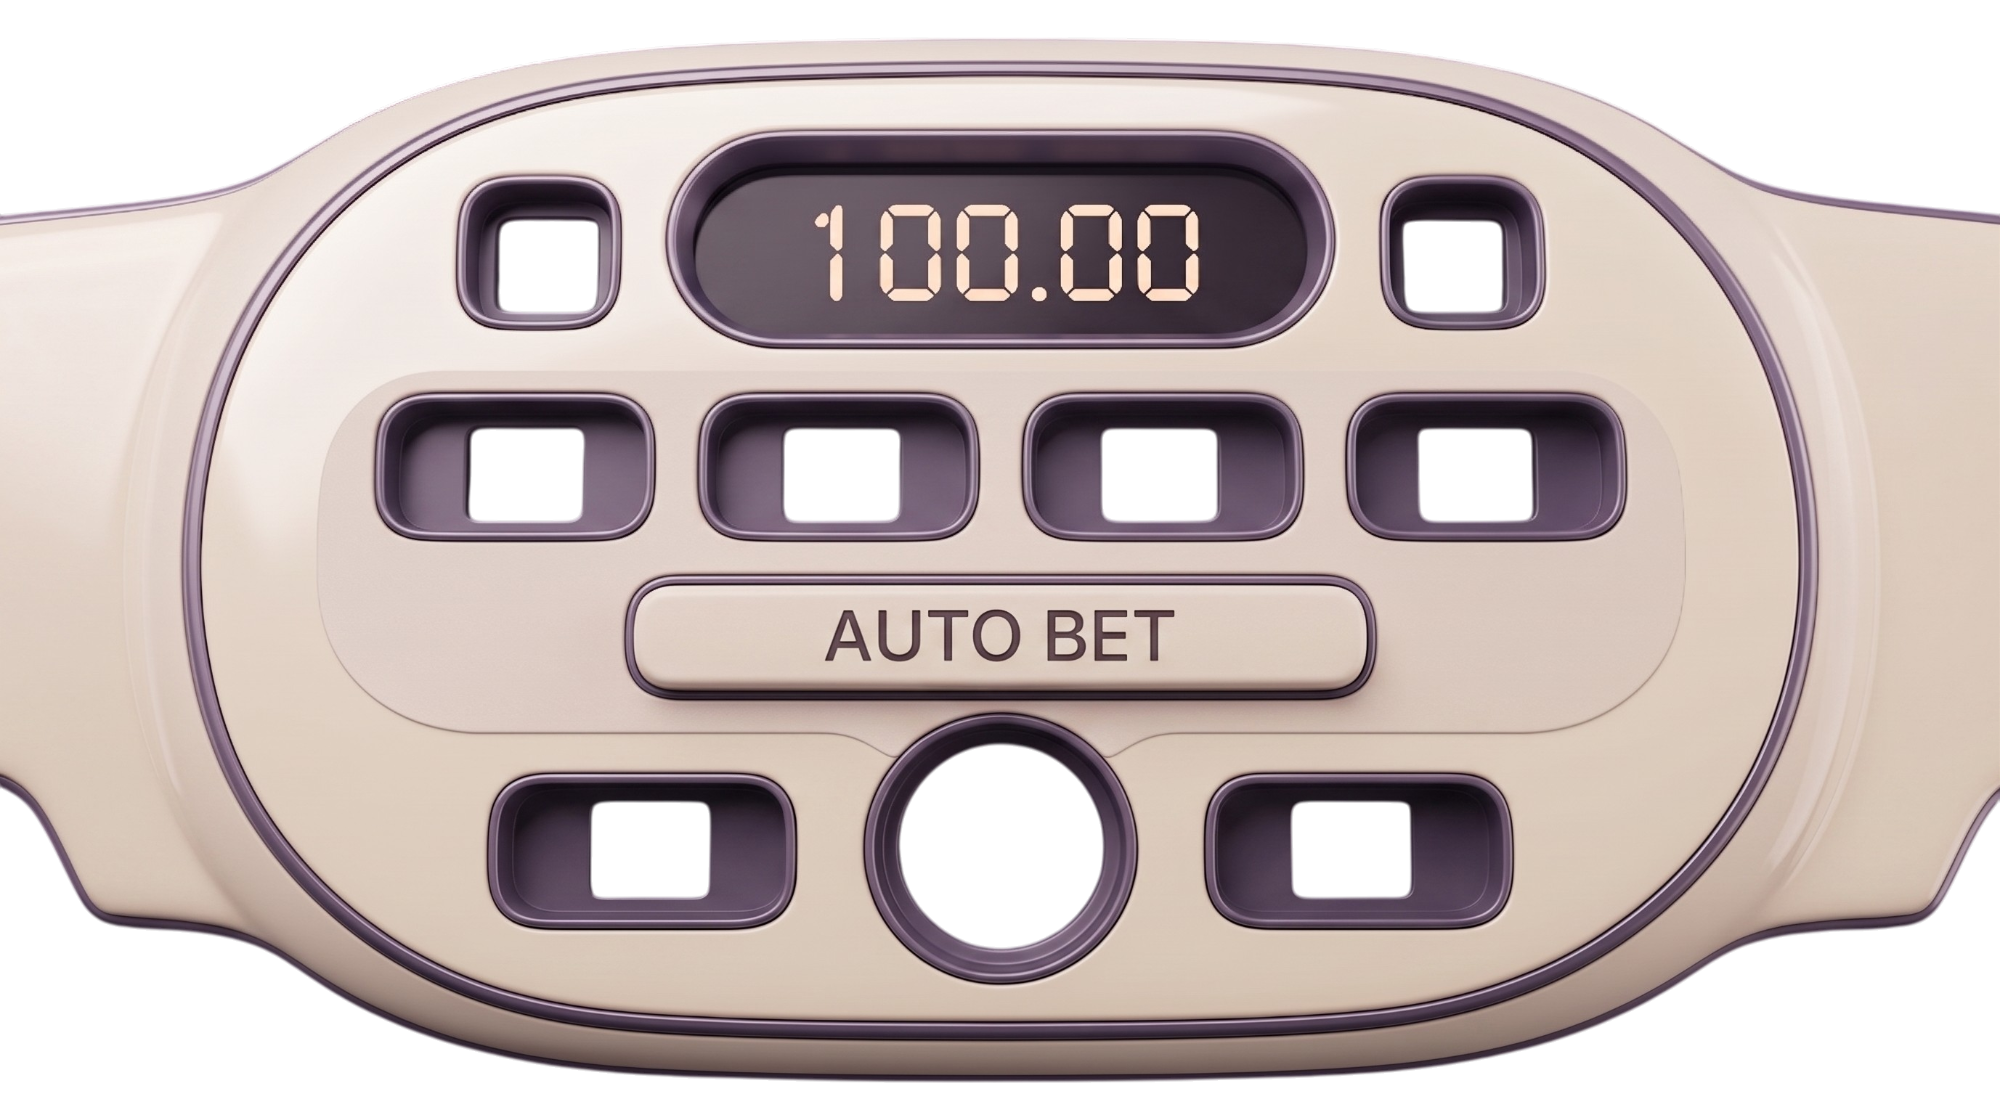
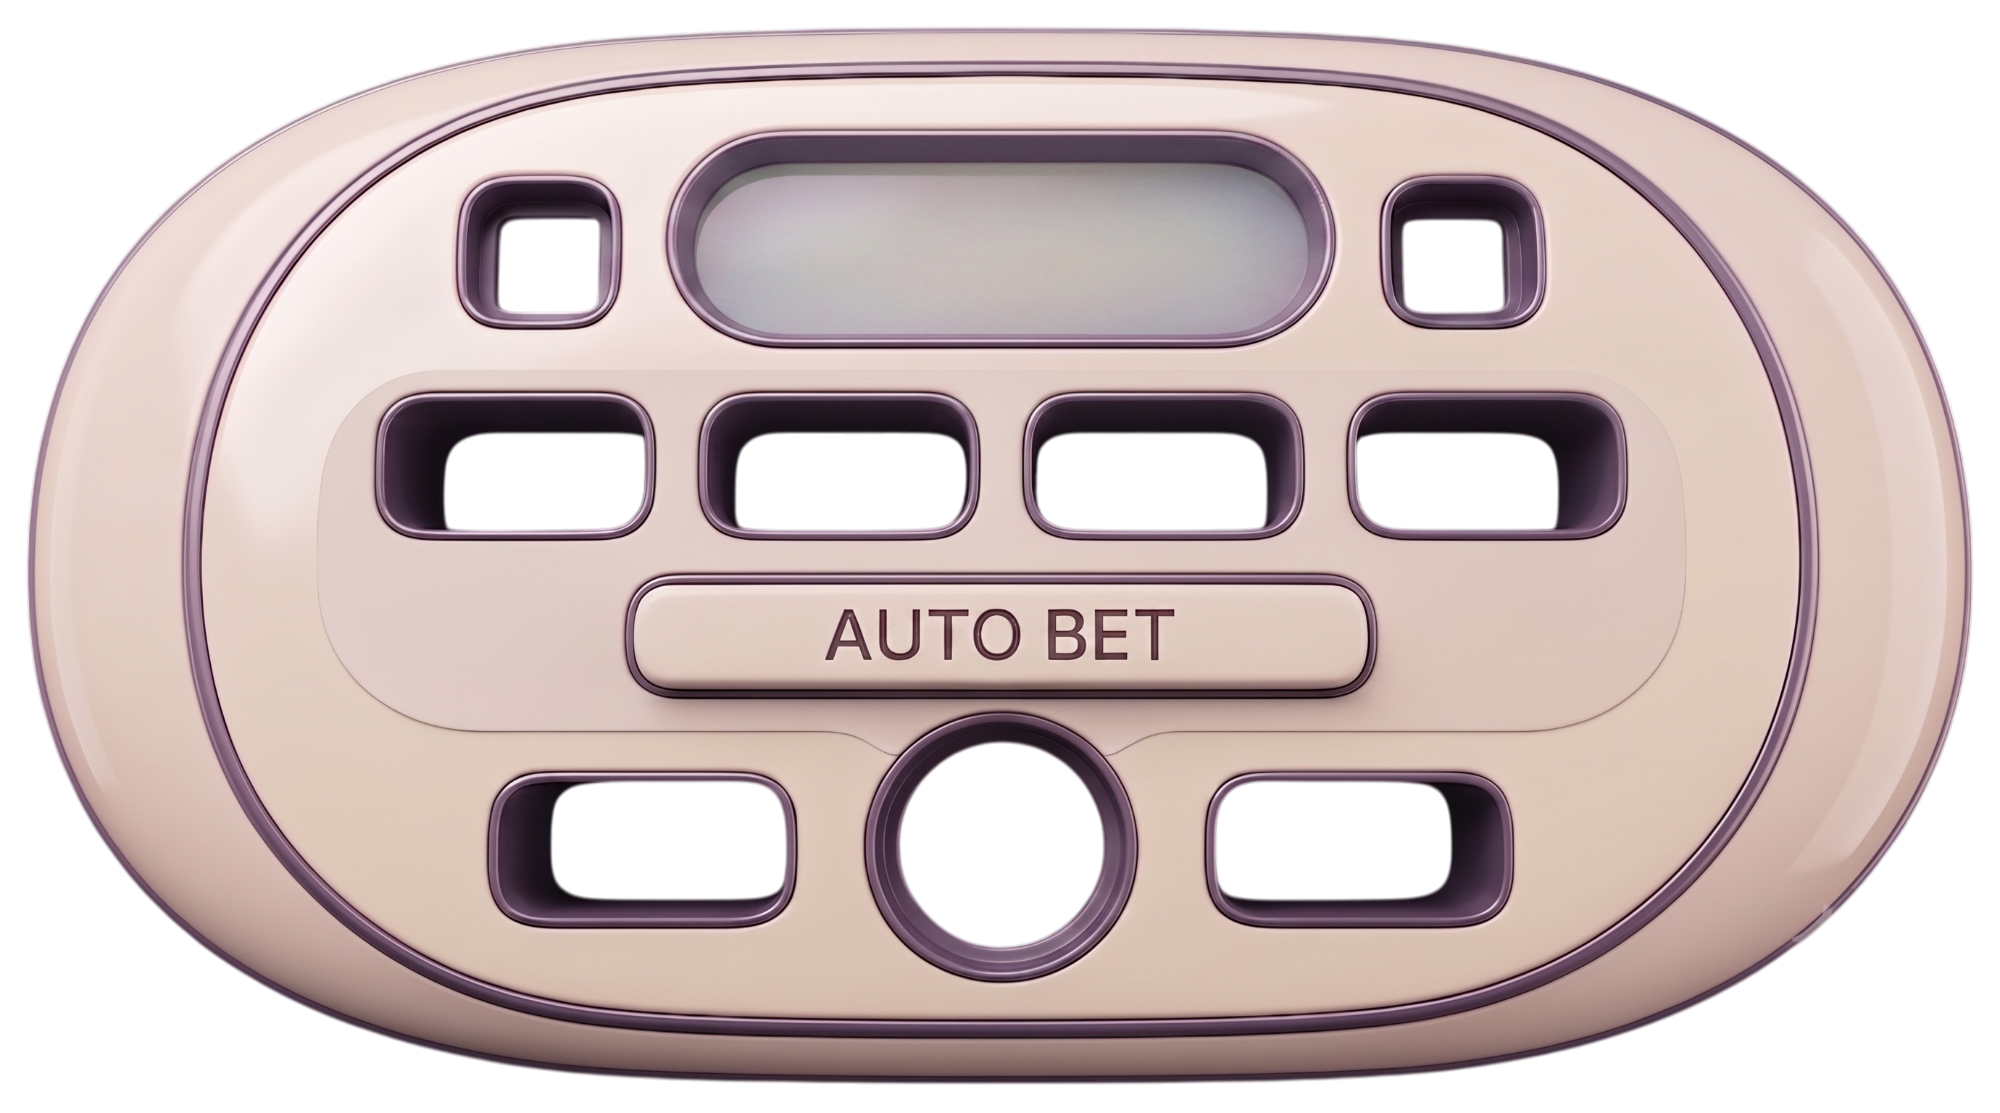
Granny v46: new granny panel.png + recalculated positions (2000x1113)

diff --git a/lava-platform/frontend/public/granny.html b/lava-platform/frontend/public/granny.html
@@ -6,7 +6,7 @@
   <meta name="theme-color" content="#0a0a0c">
   <title>Granny Run — H-GAMES</title>
   <!-- Force Telegram WebView to bypass cache on stale versions -->
-  <script>if(!location.search.includes('v=45'))location.replace('/granny.html?v=45')</script>
+  <script>if(!location.search.includes('v=46'))location.replace('/granny.html?v=46')</script>
   <script src="https://telegram.org/js/telegram-web-app.js"></script>
   <style>
     @import url('https://fonts.googleapis.com/css2?family=Cinzel:wght@400;600;700;900&family=Rajdhani:wght@400;500;600;700&family=Share+Tech+Mono&display=swap');
@@ -260,10 +260,10 @@
     }
     .bet-footer::-webkit-scrollbar{display:none}
 
-    /* ── new panel.png (2000×1115) — pixel-perfect button layout ── */
+    /* ── new panel.png (2000×1113) — pixel-perfect button layout ── */
     .bet-panel{
       width:100%;
-      aspect-ratio:2000/1115;
+      aspect-ratio:2000/1113;
       position:relative;
       background:url('/assets/granny/new%20panel.png') center/100% 100% no-repeat;
       border:none;border-radius:0;padding:0;
@@ -279,21 +279,21 @@
     /* ── [−] and [+] top-corner square slots ────────────────── */
     .bps-minus,.bps-plus{
       position:absolute;
-      top:16.23%;height:11.84%;
+      top:16.26%;height:12.22%;
       background:transparent;border:none;
       color:transparent;font-size:0;cursor:pointer;
       -webkit-tap-highlight-color:transparent;
       touch-action:manipulation;
       transition:opacity .1s,transform .1s;
     }
-    .bps-minus{left:23.30%;width:7.25%}
-    .bps-plus {left:69.45%;width:7.30%}
+    .bps-minus{left:23.30%;width:7.30%}
+    .bps-plus {left:69.50%;width:7.35%}
     .bps-minus:active,.bps-plus:active{opacity:.5;transform:scale(.93)}
 
-    /* ── LED amount display ──────────────────────────────────── */
+    /* ── display input ───────────────────────────────────────── */
     .bps-amount{
       position:absolute;
-      left:33.85%;top:12.20%;width:32.35%;height:18.12%;
+      left:33.70%;top:12.22%;width:32.75%;height:19.05%;
       background:transparent;
       border:none;outline:none;
       color:#d4a435;
@@ -313,17 +313,17 @@
       -webkit-tap-highlight-color:transparent;
       z-index:10;touch-action:manipulation;
     }
-    .bps-q1  {left:19.20%;top:35.69%;width:13.00%;height:11.57%}
-    .bps-q5  {left:35.35%;top:35.69%;width:13.10%;height:11.57%}
-    .bps-q10 {left:51.55%;top:35.69%;width:13.10%;height:11.57%}
-    .bps-half{left:67.80%;top:35.69%;width:13.00%;height:11.84%}
+    .bps-q1  {left:19.20%;top:35.67%;width:13.05%;height:11.95%}
+    .bps-q5  {left:35.35%;top:35.67%;width:13.20%;height:11.77%}
+    .bps-q10 {left:51.60%;top:35.67%;width:13.15%;height:11.77%}
+    .bps-half{left:67.85%;top:35.67%;width:13.05%;height:11.95%}
     .bps-quick:active{opacity:.45;transform:scale(.94)}
     .bps-btn-img{display:block;width:100%;height:100%;object-fit:fill;pointer-events:none}
 
-    /* ── AUTO BET inset bar ──────────────────────────────────── */
+    /* ── AUTO BET bar ────────────────────────────────────────── */
     .bps-autobet{
       position:absolute;
-      left:32%;top:51%;width:36%;height:11%;
+      left:31.25%;top:51.48%;width:37.60%;height:11.41%;
       background:transparent;border:none;cursor:pointer;
       border-radius:8px;
       -webkit-tap-highlight-color:transparent;
@@ -335,7 +335,7 @@
 
     /* ── BET circle slot ─────────────────────────────────────── */
     .bet-panel .bp-btn-pair{
-      position:absolute;left:43.70%;top:64.30%;width:12.60%;
+      position:absolute;left:43.75%;top:64.24%;width:12.60%;
       aspect-ratio:1/1;z-index:5;
       display:none;align-items:center;justify-content:center;
     }
@@ -345,7 +345,7 @@
 
     /* Text BET/CASHOUT at circle slot */
     .bet-panel .bp-btn{
-      position:absolute!important;left:43.70%;top:64.30%;
+      position:absolute!important;left:43.75%;top:64.24%;
       width:12.60%!important;aspect-ratio:1/1;
       border-radius:50%!important;
       padding:0!important;margin:0;z-index:5;
@@ -358,12 +358,12 @@
     /* ── MIN  [BET]  MAX bottom row ──────────────────────────── */
     .bps-min,.bps-max{
       position:absolute;
-      top:69.87%;height:12.47%;
+      top:69.72%;height:12.76%;
       background:transparent;border:none;padding:0;cursor:pointer;
       -webkit-tap-highlight-color:transparent;touch-action:manipulation;
     }
-    .bps-min{left:24.85%;width:14.40%}
-    .bps-max{left:60.75%;width:14.40%}
+    .bps-min{left:24.90%;width:14.35%}
+    .bps-max{left:60.90%;width:14.40%}
     .bps-min:active,.bps-max:active{opacity:.5}
 
     /* ── Button press bounce animation ──────────────────────── */